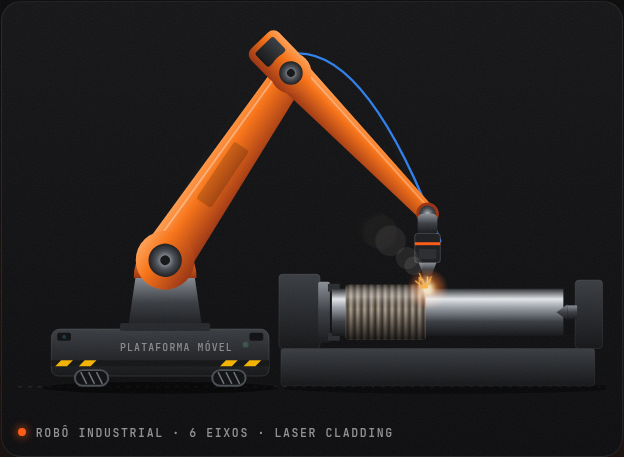
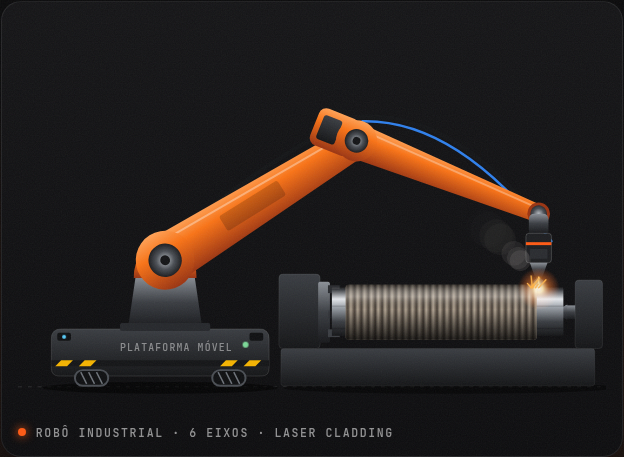
Laser: contraponta atrás da peça e animação da peça girando no torno
Claude-Session: https://claude.ai/code/session_011AVRSDopWRfiCX7N5mAv32

diff --git a/src/laser.js b/src/laser.js
@@ -7,6 +7,29 @@ export function initLaser(root, { reduced } = {}) {
   const beam = q('[data-lz-beam]'), cone = q('[data-lz-cone]'), glow = q('[data-lz-glow]');
   const bead = q('[data-lz-bead]'), bead2 = q('[data-lz-bead2]'), sparks = q('[data-lz-sparks]'), fume = q('[data-lz-fume]');
   const NS = 'http://www.w3.org/2000/svg';
+  // giro da peça: riscos que passam pela face visível e castanhas da placa girando
+  const spin = q('[data-lz-spin]'), jaws = [...svg.querySelectorAll('[data-lz-jaws] rect')];
+  const lines = Array.from({ length: 7 }, (_, i) => {
+    const l = document.createElementNS(NS, 'line');
+    l.setAttribute('x1', 320); l.setAttribute('x2', 556);
+    l.setAttribute('stroke-width', i % 2 ? 1 : 1.6);
+    spin.appendChild(l);
+    return l;
+  });
+  const spinStep = (a) => {
+    lines.forEach((l, i) => {
+      const phi = (a + (i / lines.length) * Math.PI * 2) % (Math.PI * 2);
+      const vis = phi < Math.PI;
+      const y = 355 - 27 * Math.cos(phi);
+      l.setAttribute('y1', y); l.setAttribute('y2', y);
+      l.setAttribute('stroke', `rgba(${i % 3 ? '0,0,0' : '255,255,255'},${vis ? 0.22 * Math.sin(phi) : 0})`);
+    });
+    jaws.forEach((j, i) => {
+      const phi = a + (i / jaws.length) * Math.PI * 2;
+      j.setAttribute('y', 351 - 26 * Math.cos(phi));
+      j.style.opacity = Math.sin(phi) > 0 ? 1 : 0.35;
+    });
+  };
   const base = { x: 150, y: 302 }, L1 = 230, L2 = 200;
   const X0 = 336, X1 = 548, TOP = 331, HEAD = 44, GAP = 12;
   const deg = (r) => (r * 180) / Math.PI;
@@ -37,6 +60,7 @@ export function initLaser(root, { reduced } = {}) {
     const k = Math.min(1, u / 0.82);
     const tx = X0 + (X1 - X0) * k;
     const on = u < 0.82;
+    spinStep(t * 3.2);
     const p = pose(tx, on ? Math.sin(t * 9) * 0.6 : 0);
     const w = Math.max(0, tx - X0);
     bead.setAttribute('width', w); bead2.setAttribute('width', w);

diff --git a/index.html b/index.html
@@ -648,12 +648,14 @@
             <rect x="268" y="392" width="320" height="38" rx="3" fill="url(#lz-dark)" stroke="rgba(255,255,255,.06)"/>
             <rect x="266" y="316" width="42" height="76" rx="4" fill="url(#lz-dark)" stroke="rgba(255,255,255,.08)"/>
             <rect x="306" y="324" width="12" height="62" rx="2" fill="url(#lz-metal)"/>
-            <rect x="316" y="326" width="12" height="8" fill="#2a2c30"/><rect x="316" y="376" width="12" height="8" fill="#2a2c30"/>
+            <g data-lz-jaws><rect x="316" y="326" width="12" height="8" fill="#2a2c30"/><rect x="316" y="351" width="12" height="8" fill="#3a3d42"/><rect x="316" y="376" width="12" height="8" fill="#2a2c30"/></g>
+            <rect x="558" y="348" width="12" height="14" fill="url(#lz-metal)"/>
+            <path d="M560 347 L546 355 L560 363 Z" fill="url(#lz-metal)"/>
             <rect x="320" y="331" width="236" height="48" fill="url(#lz-shaft)"/>
+            <clipPath id="lz-shaft-clip"><rect x="320" y="327" width="236" height="56"/></clipPath>
             <g data-lz-bead-wrap><rect x="334" y="327" width="0" height="56" rx="3" fill="url(#lz-bead)" data-lz-bead/><rect x="334" y="327" width="0" height="56" rx="3" fill="url(#lz-bead-shade)" data-lz-bead2/></g>
+            <g data-lz-spin clip-path="url(#lz-shaft-clip)"></g>
             <rect x="568" y="322" width="28" height="70" rx="4" fill="url(#lz-dark)" stroke="rgba(255,255,255,.08)"/>
-            <rect x="560" y="348" width="10" height="14" fill="url(#lz-metal)"/>
-            <path d="M560 347 L549 355 L560 363 Z" fill="url(#lz-metal)"/>
             <!-- plataforma móvel -->
             <g class="laser__agv">
               <path d="M34 382 Q34 372 44 372 L246 372 Q256 372 256 382 L256 412 Q256 420 248 420 L42 420 Q34 420 34 412 Z" fill="url(#lz-dark)" stroke="rgba(255,255,255,.12)"/>
